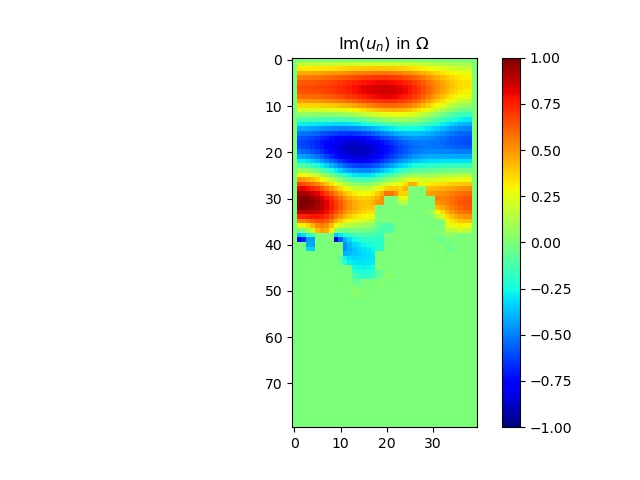
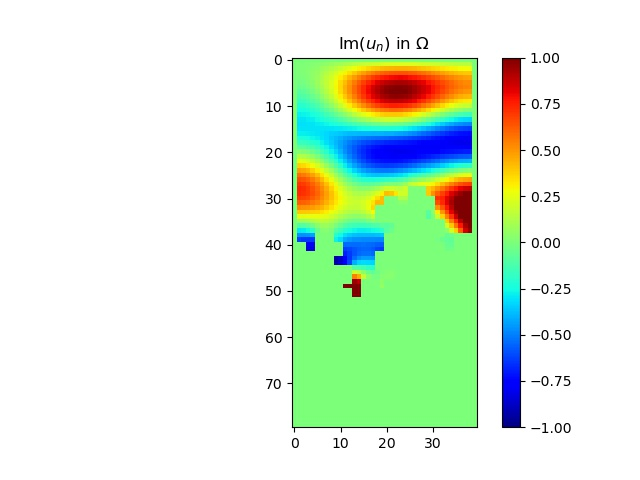
ok

Changed region(s): [[0.4375, 0.125, 0.75, 0.625]]

diff --git a/demo_control_polycopie.py b/demo_control_polycopie.py
@@ -259,7 +259,11 @@ if __name__ == '__main__':
     # -- define subset of border on which we put the liner
     # modify this to change liners distribution
 
-    indices = list(range(0*(len(x)-1)//10, 4*(len(x)-1)//10))
+    indices = list(range(6*(len(x)-1)//10, 10*(len(x)-1)//10))
+
+    indices = numpy.array(indices)
+    indices -= 5
+    indices = indices.tolist()
 
     # indices.extend(list(range(6*(len(x)-1)//10, 8*(len(x)-1)//10)))
     # print(indices)
